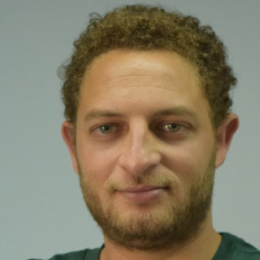
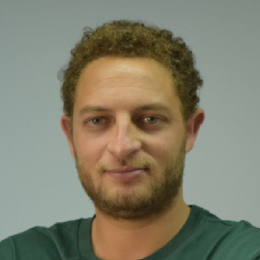
enhanc rafif img

diff --git a/index.html b/index.html
@@ -887,7 +887,7 @@
             <div class="col-sm-4 col-md-2 team-wrap">
               <div class="team-member last text-center">
                 <div class="team-img">
-                  <img src="img/teamMember/Rafik.png" alt="">
+                  <img src="img/teamMember/rafik.png" alt="">
 
                 </div>
                 <h6 class="team-title">Rafik Zaher</h6>

diff --git a/css/style.css b/css/style.css
@@ -4924,6 +4924,8 @@ color: #7a7a7a;
       }
     }
   @media (max-width: 480px) {
+    #Culture .team-img {
+      margin: 100px;}
     .service-item-box > a {
       margin-bottom: 27px;
       margin-top: 27px;
